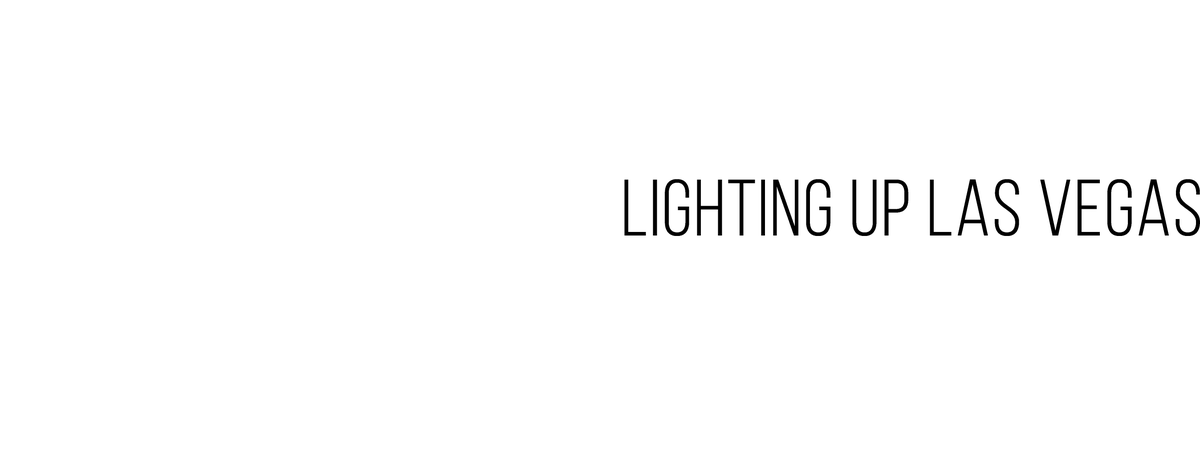
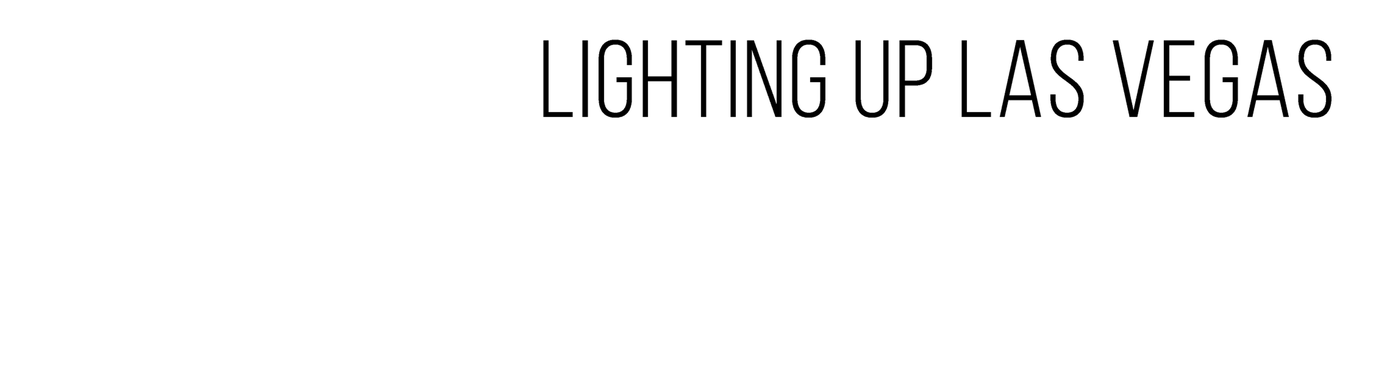
Review fixes, round three: rhythm, measure, and the fourth hue
SCROLL GUTTER. scroll-snap-align aligned the first card to the PADDING box,
eating the track's gutter — the first rail card sat at x=0, flush to the screen
with its left border clipped, while its own heading sat at x=20. Fixed with
scroll-padding-inline-start on both the mobile rail and the desktop floor rail.

THE DELIVERY BAND'S STATS broke 2+1 on mobile, stranding "24/7" above ~210px of
dead space inside the most emphatic panel on the page. Now a real 3-column grid.

DEPARTMENT SHOTS read as failed images: the glyph filled 48% of its box, so
~85% was empty tint — on a page whose entire content is those cards, next to a
real storefront photograph. Raised to 68%.

THE LOGO was recomposed rather than restyled. The source art butts "puff"
against "VEGAS" with about 2px of air, so the lockup read as one crowded word,
"puffVEGAS", and the magenta/gold split muddied at exactly the joint that
should be cleanest. Both variants are rebuilt from the three source regions
with real optical spacing — 0.11 of cap height between mark and wordmark, and
the tagline lifted off the VEGAS cap line. Aspect ratios updated to match so
the mask layers stay in register.

MEASURE. /legal ran 77-96 characters a line against 646px of empty ground;
/deals rows were 1360px holding ~120px of ink with a hairline ruled all the way
across. Capped at 760 and 880. The deal price dropped from 26px to 21px — at
twice the product name, the loudest thing in every row was the one piece of
[…]

Changed region(s): [[0.37, 0.0862, 0.9558, 0.3159], [0.4933, 0.3734, 1.0, 0.517]]

diff --git a/web/src/app/Home.module.css b/web/src/app/Home.module.css
@@ -341,7 +341,10 @@
      keeps the whole set reading as one family. */
   color: var(--cyan);
   overflow: hidden;
-  --dept-icon-h: 48%;
+  /* Filling more of the box: at 48% the glyph sat in ~85% empty tint and the
+     card read as a photo slot that failed to load — next to a real storefront
+     photograph, on a page whose whole content is these cards. */
+  --dept-icon-h: 68%;
 }
 
 .floorName {
@@ -371,6 +374,10 @@
   overflow-x: auto;
   padding: 0 var(--gutter) 6px;
   scroll-snap-type: x proximity;
+  /* Without this the snap aligns the first card to the PADDING box, eating
+     the track's gutter — the first card landed at x=0, flush to the screen
+     with its left border clipped, while its own heading sat at x=20. */
+  scroll-padding-inline-start: var(--gutter);
   -webkit-overflow-scrolling: touch;
 }
 
@@ -474,10 +481,13 @@
   color: var(--text);
 }
 
+/* Three across, not flex-wrapped. Wrapping put two on one row and stranded
+   "24/7" alone above ~210px of dead space — inside the most emphatic panel on
+   the page, which is the worst place on the site to leave a hole. */
 .bandStats {
-  display: flex;
-  flex-wrap: wrap;
-  gap: 18px;
+  display: grid;
+  grid-template-columns: repeat(3, minmax(0, 1fr));
+  gap: 14px 12px;
 }
 
 .bandStat {
@@ -553,6 +563,7 @@
     padding: 0 40px 6px;
     overflow-x: auto;
     scroll-snap-type: x proximity;
+    scroll-padding-inline-start: 40px;
     overscroll-behavior-x: contain;
   }
 

diff --git a/web/src/app/p/[slug]/page.tsx b/web/src/app/p/[slug]/page.tsx
@@ -3,6 +3,7 @@ import { headers } from "next/headers";
 import type { Metadata } from "next";
 import s from "./Product.module.css";
 import NicotineWarning from "@/components/NicotineWarning";
+import Bulbs from "@/components/Bulbs";
 import { AgeBanner, Header, BottomNav, PHONE_DISPLAY, PHONE_HREF } from "@/components/Chrome";
 import { AGE_HEADER } from "@/lib/age-shared";
 import {
@@ -74,6 +75,10 @@ export default async function ProductPage({
             rule worth being conservative about, so the plate now spans the
             listing and the 20% test is met against the larger denominator. */}
         <NicotineWarning regulatoryClass={product.regulatoryClass} />
+
+        {/* Frames the shot as a lit display case — the signature divider was
+            absent from this template entirely. */}
+        <Bulbs />
 
         <div className={s.hero}>
           <div
@@ -174,6 +179,8 @@ export default async function ProductPage({
             {human && <p className={s.allIn}>{product.puffCount?.toLocaleString()} puffs — {human}</p>}
           </div>
         </div>
+
+        <Bulbs />
 
         <div className={s.trust}>
           {product.deliveryEligible ? (

diff --git a/web/src/components/Logo.module.css b/web/src/components/Logo.module.css
@@ -4,9 +4,14 @@
 .lockup {
   position: relative;
   display: block;
-  /* Measured from the source art's ink bounds — 2695x1022. Hard-coded so the
-     box never disagrees with the masks and shifts them out of register. */
-  aspect-ratio: 2695 / 1022;
+  /* Hard-coded so the box never disagrees with the masks and shifts them out
+     of register. Recomposed from the three source regions with real optical
+     spacing rather than the artwork's own: the original butts "puff" against
+     "VEGAS" with about 2px of air, so the lockup read as one crowded word and
+     the magenta/gold split muddied at exactly the joint that should be
+     cleanest. Now 0.11 of cap height between them, and the tagline sits off
+     the VEGAS cap line instead of on it. */
+  aspect-ratio: 3658 / 1000;
   height: var(--logo-h, 34px);
   width: auto;
   flex: none;
@@ -68,7 +73,7 @@
 .compact {
   position: relative;
   display: block;
-  aspect-ratio: 1632 / 400;
+  aspect-ratio: 1660 / 400;
   height: var(--logo-h, 30px);
   width: auto;
   flex: none;

diff --git a/web/src/app/deals/Deals.module.css b/web/src/app/deals/Deals.module.css
@@ -140,10 +140,12 @@
   min-width: 0;
 }
 
+/* Was 26px — twice the product name, so the loudest element in every row was
+   the one piece of information that never changes. */
 .rowHeadline {
   font-family: var(--font-display);
   line-height: 0.92;
-  font-size: 26px;
+  font-size: 21px;
   letter-spacing: 0.04em;
   color: var(--gold);
   font-variant-numeric: tabular-nums;
@@ -198,7 +200,10 @@
 .signupLegal { font-size: 12px; color: var(--text-dim); }
 
 @media (min-width: 1200px) {
-  .main { max-width: 1360px; margin: 0 auto; width: 100%; }
+  /* Capped. At 1360 each deal row was a 112px photo followed by ~120px of ink
+     and 1030px of empty ground with a hairline ruled all the way across it —
+     three lonely captions pinned to the left margin. */
+  .main { max-width: 880px; margin: 0 auto; width: 100%; }
   .pageTitle, .sectionTitle, .rowLink, .signup { padding-inline: 40px; }
   .feature, .featureOff { margin-inline: 40px; }
 }

diff --git a/web/src/app/pickup/Pickup.module.css b/web/src/app/pickup/Pickup.module.css
@@ -20,6 +20,10 @@
 
 .head { padding: 20px var(--gutter) 24px; }
 
+/* Gold, not green. "Open now — and always" is an hours statement, and gold is
+   the hours colour — the footer already does this. The mint green was a fourth
+   hue in a three-tube system, carrying three unrelated meanings across the
+   site, and it is the one colour here that cannot be a neon tube. */
 .openNow {
   display: inline-flex;
   align-items: center;
@@ -29,14 +33,14 @@
   font-size: 15px;
   letter-spacing: 0.16em;
   text-transform: uppercase;
-  color: var(--green);
+  color: var(--gold);
 }
 
 .pulse {
   width: 9px;
   height: 9px;
   border-radius: var(--r-pill);
-  background: var(--green);
+  background: var(--gold);
 }
 
 .address {
@@ -113,7 +117,7 @@
   font-size: 11px;
   letter-spacing: 0.14em;
   text-transform: uppercase;
-  color: var(--text-faint);
+  color: var(--cyan);
 }
 
 .hoursValue {

diff --git a/web/src/app/search/page.tsx b/web/src/app/search/page.tsx
@@ -5,6 +5,7 @@ import { headers } from "next/headers";
    undefined and the page rendered unstyled. */
 import s from "./Search.module.css";
 import PageNicotineWarning from "@/components/PageNicotineWarning";
+import Bulbs from "@/components/Bulbs";
 import { AgeBanner, Header, BottomNav } from "@/components/Chrome";
 import { AGE_HEADER } from "@/lib/age-shared";
 import {
@@ -50,6 +51,8 @@ export default async function SearchPage({
       <Header />
 
       <main className={s.main}>
+        <Bulbs />
+
         <section className={s.searchBar}>
           {/* A real GET form. The header links here, and until now there was
               nothing to type into — you could only search by arriving with a

diff --git a/web/src/app/legal/Legal.module.css b/web/src/app/legal/Legal.module.css
@@ -77,7 +77,10 @@
 }
 
 @media (min-width: 1200px) {
-  .main { max-width: 1360px; margin: 0 auto; width: 100%; }
+  /* 720, not 1360. At full width the body copy ran 77-96 characters a line
+     against 646px of empty ground — a wall on the one page where a calm,
+     well-set column builds the most trust. */
+  .main { max-width: 760px; margin: 0 auto; width: 100%; }
   .title, .section, .address, .keepOut { padding-inline: 40px; }
   .warningSlot { margin-inline: 40px; max-width: 720px; }
 }

diff --git a/web/src/app/delivery/Delivery.module.css b/web/src/app/delivery/Delivery.module.css
@@ -49,11 +49,14 @@
   font-variant-numeric: tabular-nums;
 }
 
+/* Cyan is the system's label colour and it was entirely unused on this page —
+   the flagship lit two of its three tubes. Every letterspaced eyebrow here is
+   a label, so this is where the third one belongs. */
 .statLabel {
   font-size: 11px;
   letter-spacing: 0.11em;
   text-transform: uppercase;
-  color: var(--text-faint);
+  color: var(--cyan);
 }
 
 .sectionTitle {

diff --git a/web/src/app/delivery/order/Order.module.css b/web/src/app/delivery/order/Order.module.css
@@ -105,10 +105,10 @@
   font-size: 17px;
 }
 
-/* A completed step goes green — the same vocabulary the tracking list uses. */
+/* A completed step goes cyan — the same vocabulary the tracking list uses. */
 .stepNum[data-done="true"] {
-  border-color: var(--green);
-  color: var(--green);
+  border-color: var(--cyan);
+  color: var(--cyan);
 }
 
 .field { display: flex; flex-direction: column; gap: 6px; }

diff --git a/web/src/app/delivery/track/Track.module.css b/web/src/app/delivery/track/Track.module.css
@@ -116,9 +116,10 @@
   border: 2px solid var(--border-strong);
 }
 
+/* Cyan is the system's state colour and it was otherwise unemployed here. */
 .step[data-state="done"] .dot {
-  background: var(--green);
-  border-color: var(--green);
+  background: var(--cyan);
+  border-color: var(--cyan);
 }
 
 .stepBody { display: flex; flex-direction: column; gap: 2px; }

diff --git a/web/src/app/floor/page.tsx b/web/src/app/floor/page.tsx
@@ -95,6 +95,8 @@ export default async function FloorPage() {
 
         <PageNicotineWarning products={all} />
 
+        <Bulbs />
+
         <ul className={fl.grid}>
           {stocked.map(({ department, total, onShelf }, i) => (
             <li key={department}>

diff --git a/web/src/app/floor/Floor.module.css b/web/src/app/floor/Floor.module.css
@@ -65,7 +65,7 @@
   border-radius: var(--r-thumb);
   color: var(--cyan);
   overflow: hidden;
-  --dept-icon-h: 48%;
+  --dept-icon-h: 68%;
 }
 
 .name {
